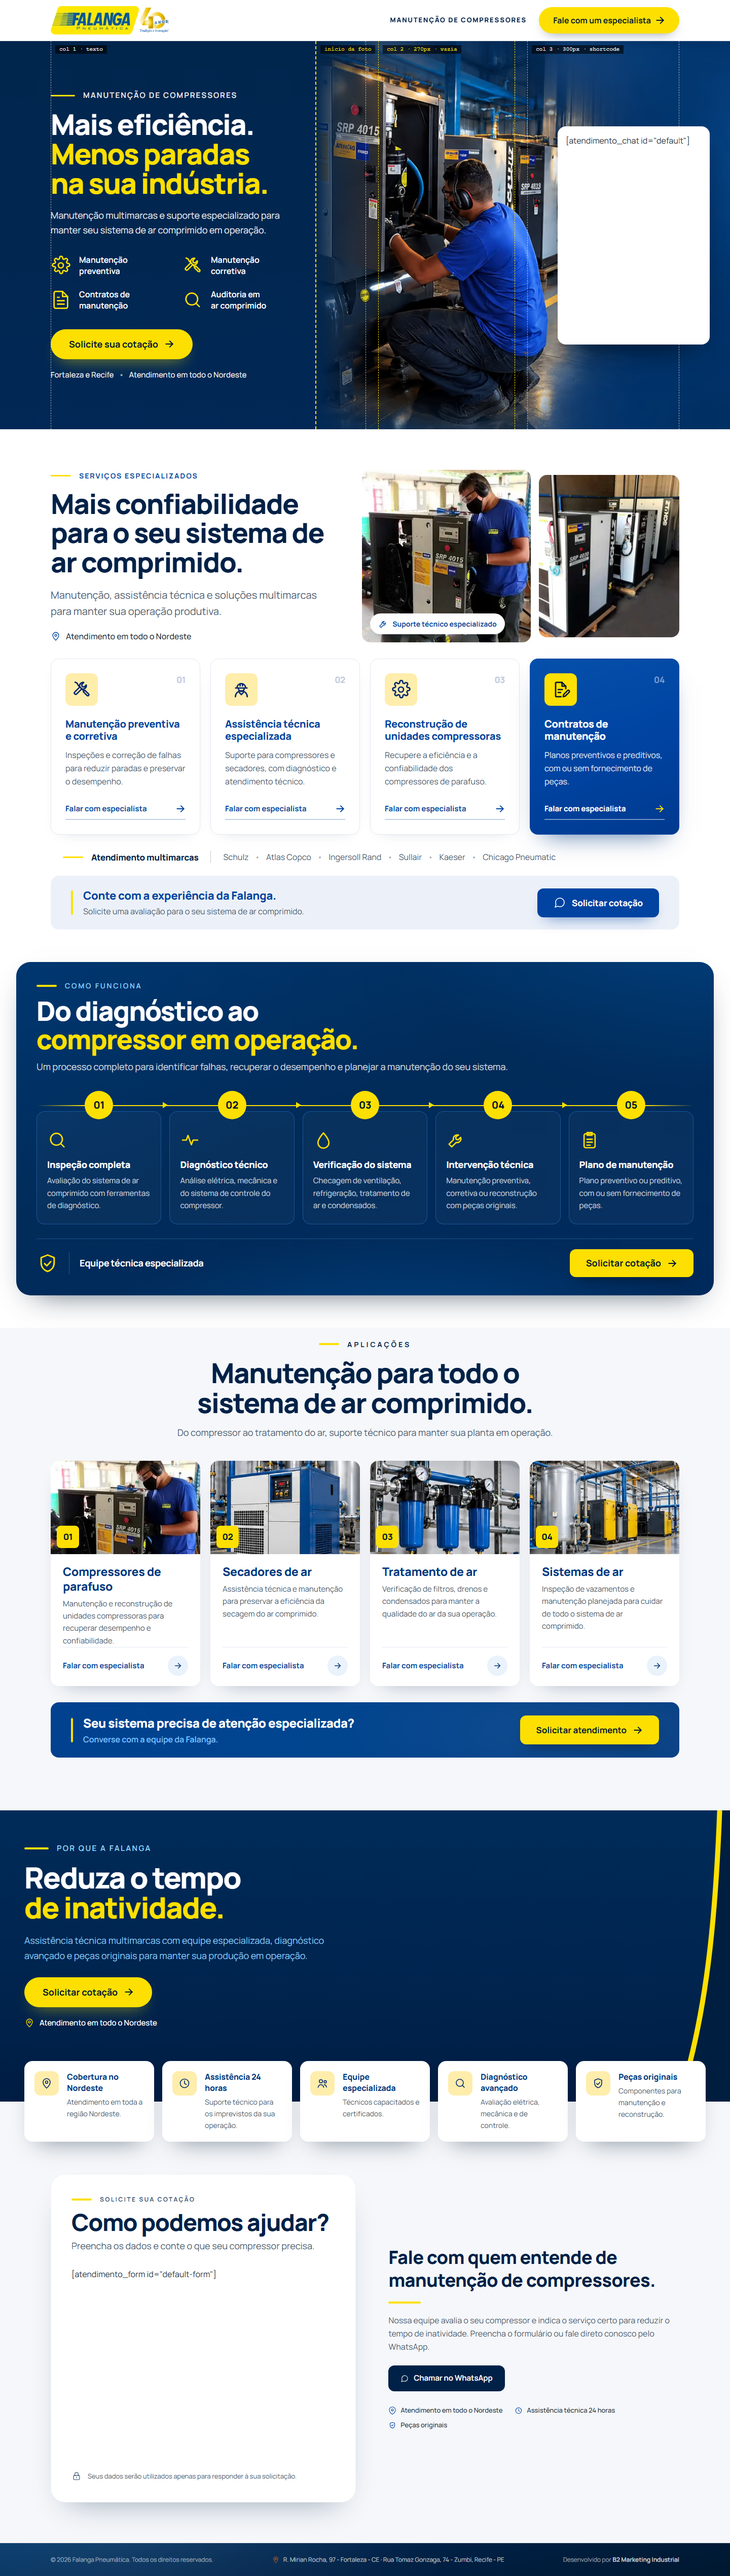
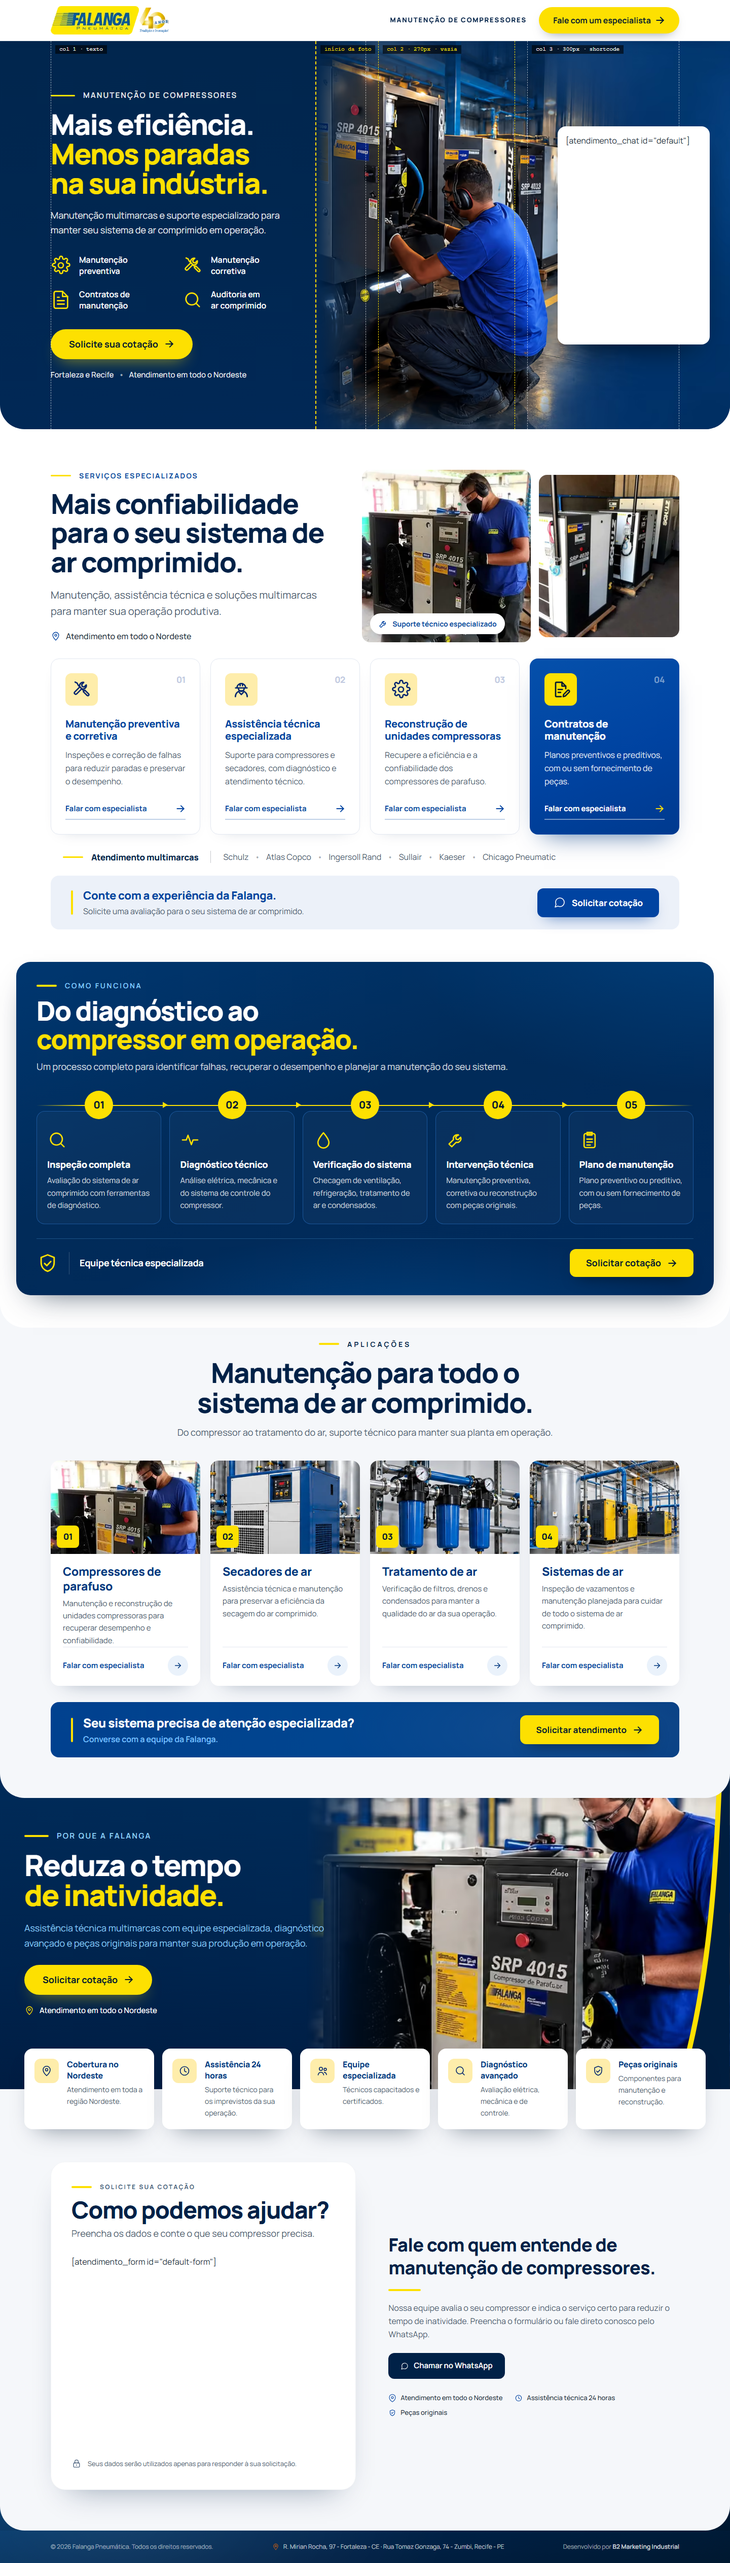
style: arredonda as divisórias entre as seções
A pedido do usuário, com o mesmo tratamento da LP Spinplus Manutenção: cada
seção termina com os cantos de baixo curvos (--lp-round, 32px no mobile e 48px
a partir de 1024px) e a seguinte passa por baixo dela. Margem negativa e borda
transparente se anulam, então nenhum conteúdo muda de lugar.

O navy dos diferenciais sobe até a borda da seção, lendo o respiro do ritmo,
para a curva das aplicações aparecer sobre ele.

diff --git a/src/styles/global.css b/src/styles/global.css
@@ -140,3 +140,62 @@
     display: none;
   }
 }
+
+/* ---------------------------------------------------------------------------
+   Falanga: divisões entre as seções com cantos arredondados (pedido do cliente,
+   21/10/2026 — o mesmo tratamento da LP Spinplus Manutenção). Cada seção termina com
+   os cantos de baixo curvos e a seguinte sobe por baixo dela: a margem negativa a
+   esconde sob a curva e a borda transparente do mesmo tamanho devolve o espaço, então
+   conteúdo e decorações não mudam de lugar. `:not(:first-of-type)` e não
+   `section + section`: o Astro renderiza o <script> de uma seção entre ela e a seguinte.
+   Fora de @layer de propósito: precisa vencer as utilities de fundo e de borda.
+   A curva só aparece entre cores diferentes; o bloco navy de `diferenciais` sobe até a
+   borda da seção (ver WhyBrand.astro) para a curva das aplicações aparecer sobre ele.
+   --------------------------------------------------------------------------- */
+:root {
+  --lp-round: 2rem;
+}
+
+@media (width >= 64rem) {
+  :root {
+    --lp-round: 3rem;
+  }
+}
+
+#main > section {
+  position: relative;
+  border-bottom-left-radius: var(--lp-round);
+  border-bottom-right-radius: var(--lp-round);
+}
+
+#main > section:not(:first-of-type),
+#main + footer {
+  position: relative;
+  margin-top: calc(-1 * var(--lp-round));
+  border-top: var(--lp-round) solid transparent;
+}
+
+/* Cada seção por cima da seguinte, para a curva aparecer sobre ela */
+#main > section:nth-of-type(1) {
+  z-index: 6;
+}
+
+#main > section:nth-of-type(2) {
+  z-index: 5;
+}
+
+#main > section:nth-of-type(3) {
+  z-index: 4;
+}
+
+#main > section:nth-of-type(4) {
+  z-index: 3;
+}
+
+#main > section:nth-of-type(5) {
+  z-index: 2;
+}
+
+#main > section:nth-of-type(6) {
+  z-index: 1;
+}

diff --git a/docs/BRIEFING.md b/docs/BRIEFING.md
@@ -245,6 +245,21 @@ A coluna do formulário da seção de cotação (`src/components/QuoteForm.astro
 
 A coluna de texto perdeu o selo "Solicite sua cotação", que passou para o card e apareceria duas vezes lado a lado. O traço e os ícones dos selos saíram do laranja para o amarelo e o azul da Falanga, e o botão do WhatsApp ganhou cantos arredondados. Grid, ordem das colunas e o CTA `cotacao-whatsapp` seguem os do padrão, e a assinatura A8 não precisou mudar.
 
+## Divisórias arredondadas entre as seções (21/10/2026)
+
+Pedido do usuário, com o mesmo tratamento da LP Spinplus Manutenção. Cada seção termina com os cantos de baixo curvos (`--lp-round`: 32px no mobile, 48px a partir de 1024px), e a seguinte passa por baixo dela. O CSS está no fim de `src/styles/global.css` e não desloca conteúdo, porque a margem negativa e a borda transparente do mesmo tamanho se anulam.
+
+A curva só aparece entre cores diferentes:
+
+| Divisão                    | O que fica de cada lado            | Ajuste                                                                                                                      |
+| -------------------------- | ---------------------------------- | --------------------------------------------------------------------------------------------------------------------------- |
+| Topo → Serviços            | navy e foto do hero sobre o branco | nenhum: o hero já recorta o conteúdo                                                                                        |
+| Serviços → Como funciona   | branco sobre branco                | não aparece; o painel navy já tem cantos próprios                                                                           |
+| Como funciona → Aplicações | branco sobre o cinza               | nenhum                                                                                                                      |
+| Aplicações → Diferenciais  | cinza sobre o navy                 | o navy de `diferenciais` sobe sobre o respiro de cima e a faixa sob a curva, lendo o valor do ritmo (`RHYTHMS[rhythm].top`) |
+| Diferenciais → Cotação     | cinza sobre cinza                  | não aparece                                                                                                                 |
+| Cotação → Rodapé           | cinza sobre o navy                 | nenhum                                                                                                                      |
+
 ## Estado da entrega
 
 - [x] Primeira versão de pé (`npm run check:lp:rascunho` passa) em: 21/10/2026
